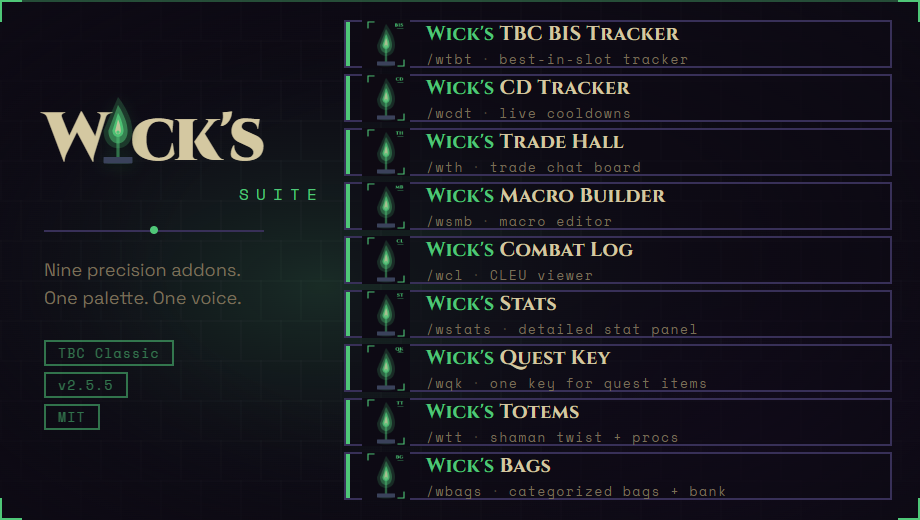
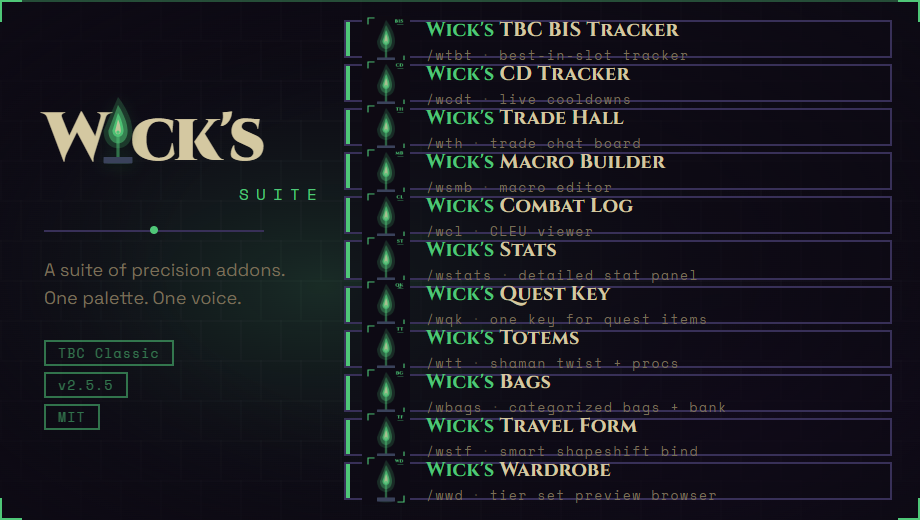
add Wick's Wardrobe card; update suite art with Wardrobe in roster

Changed region(s): [[0.3652, 0.0308, 0.9739, 0.4923], [0.3652, 0.5231, 0.9739, 0.9846], [0.0304, 0.4923, 0.3043, 0.5538]]

diff --git a/index.html b/index.html
@@ -610,6 +610,27 @@
       </div>
     </div>
 
+    <!-- Wardrobe -->
+    <div class="card">
+      <div class="new-badge">New</div>
+      <div class="br tl"><div class="h"></div><div class="v"></div></div>
+      <div class="br tr"><div class="h"></div><div class="v"></div></div>
+      <div class="br bl"><div class="h"></div><div class="v"></div></div>
+      <div class="br br"><div class="h"></div><div class="v"></div></div>
+      <div class="card-thumb">
+        <img src="images/wardrobe/thumb.png" alt="Wick's Wardrobe">
+      </div>
+      <div class="card-meta">
+        <div class="card-name"><span class="apo">Wick's</span> Wardrobe</div>
+        <div class="card-tagline">Browse every TBC tier set and weapon on your own character. Click any item to preview it inline -- no vendor required.</div>
+        <div class="card-slash">/wwd</div>
+        <div class="card-actions">
+          <a href="https://www.curseforge.com/wow/addons/wicks-wardrobe" class="card-btn cf">CurseForge</a>
+          <a href="https://github.com/Wicksmods/WicksWardrobe" class="card-btn">GitHub</a>
+        </div>
+      </div>
+    </div>
+
   </div>
 </section>
 
